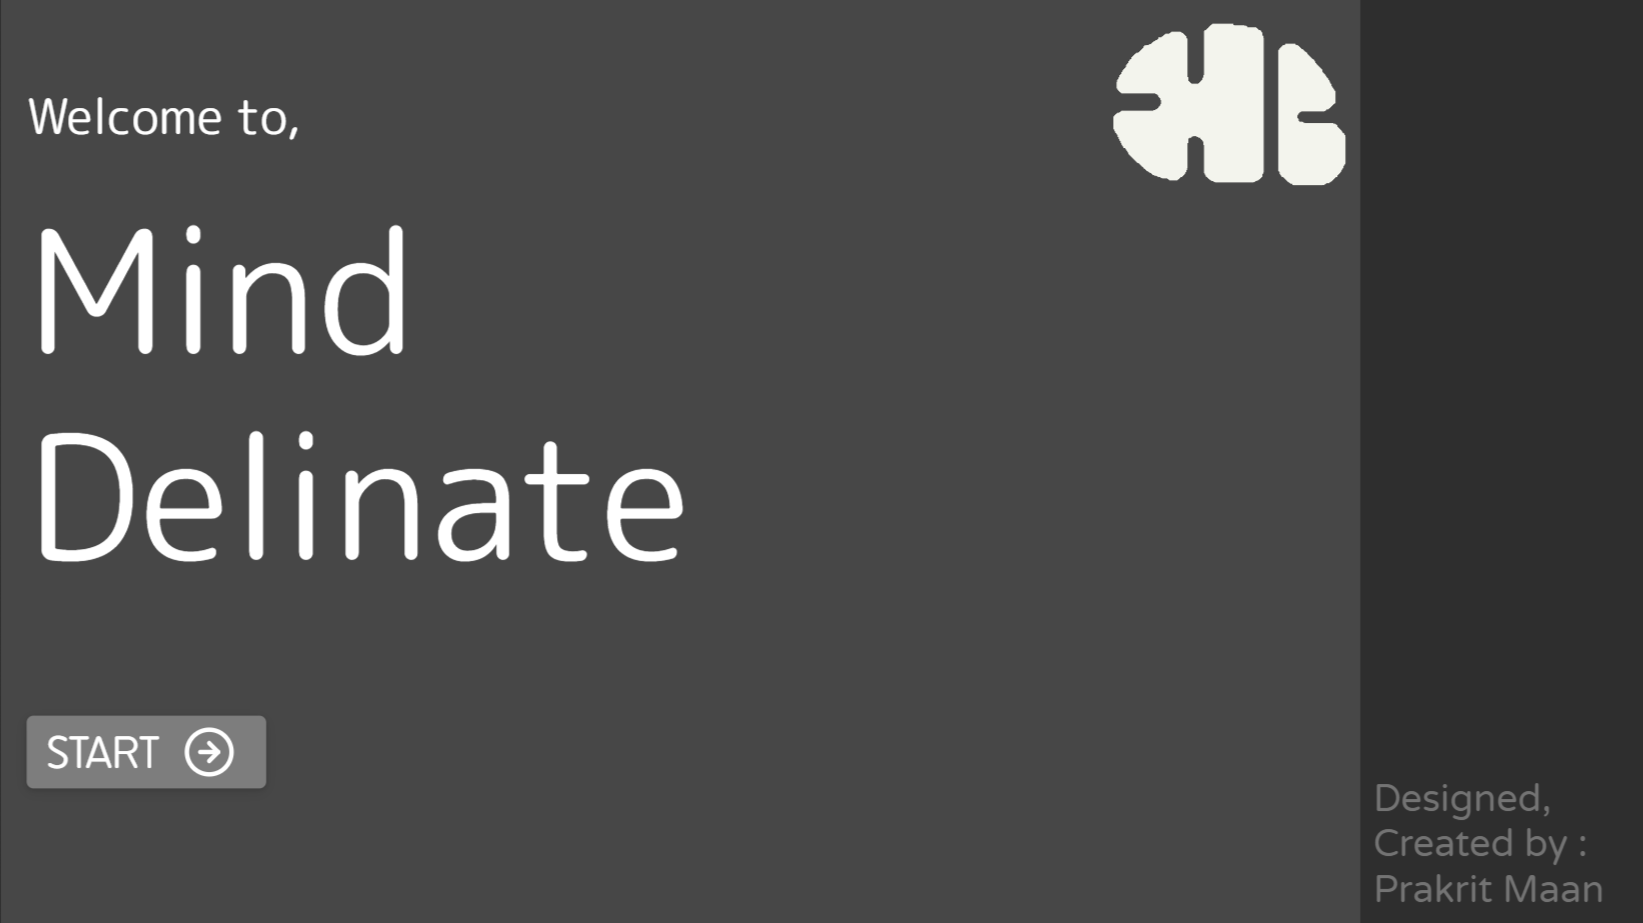
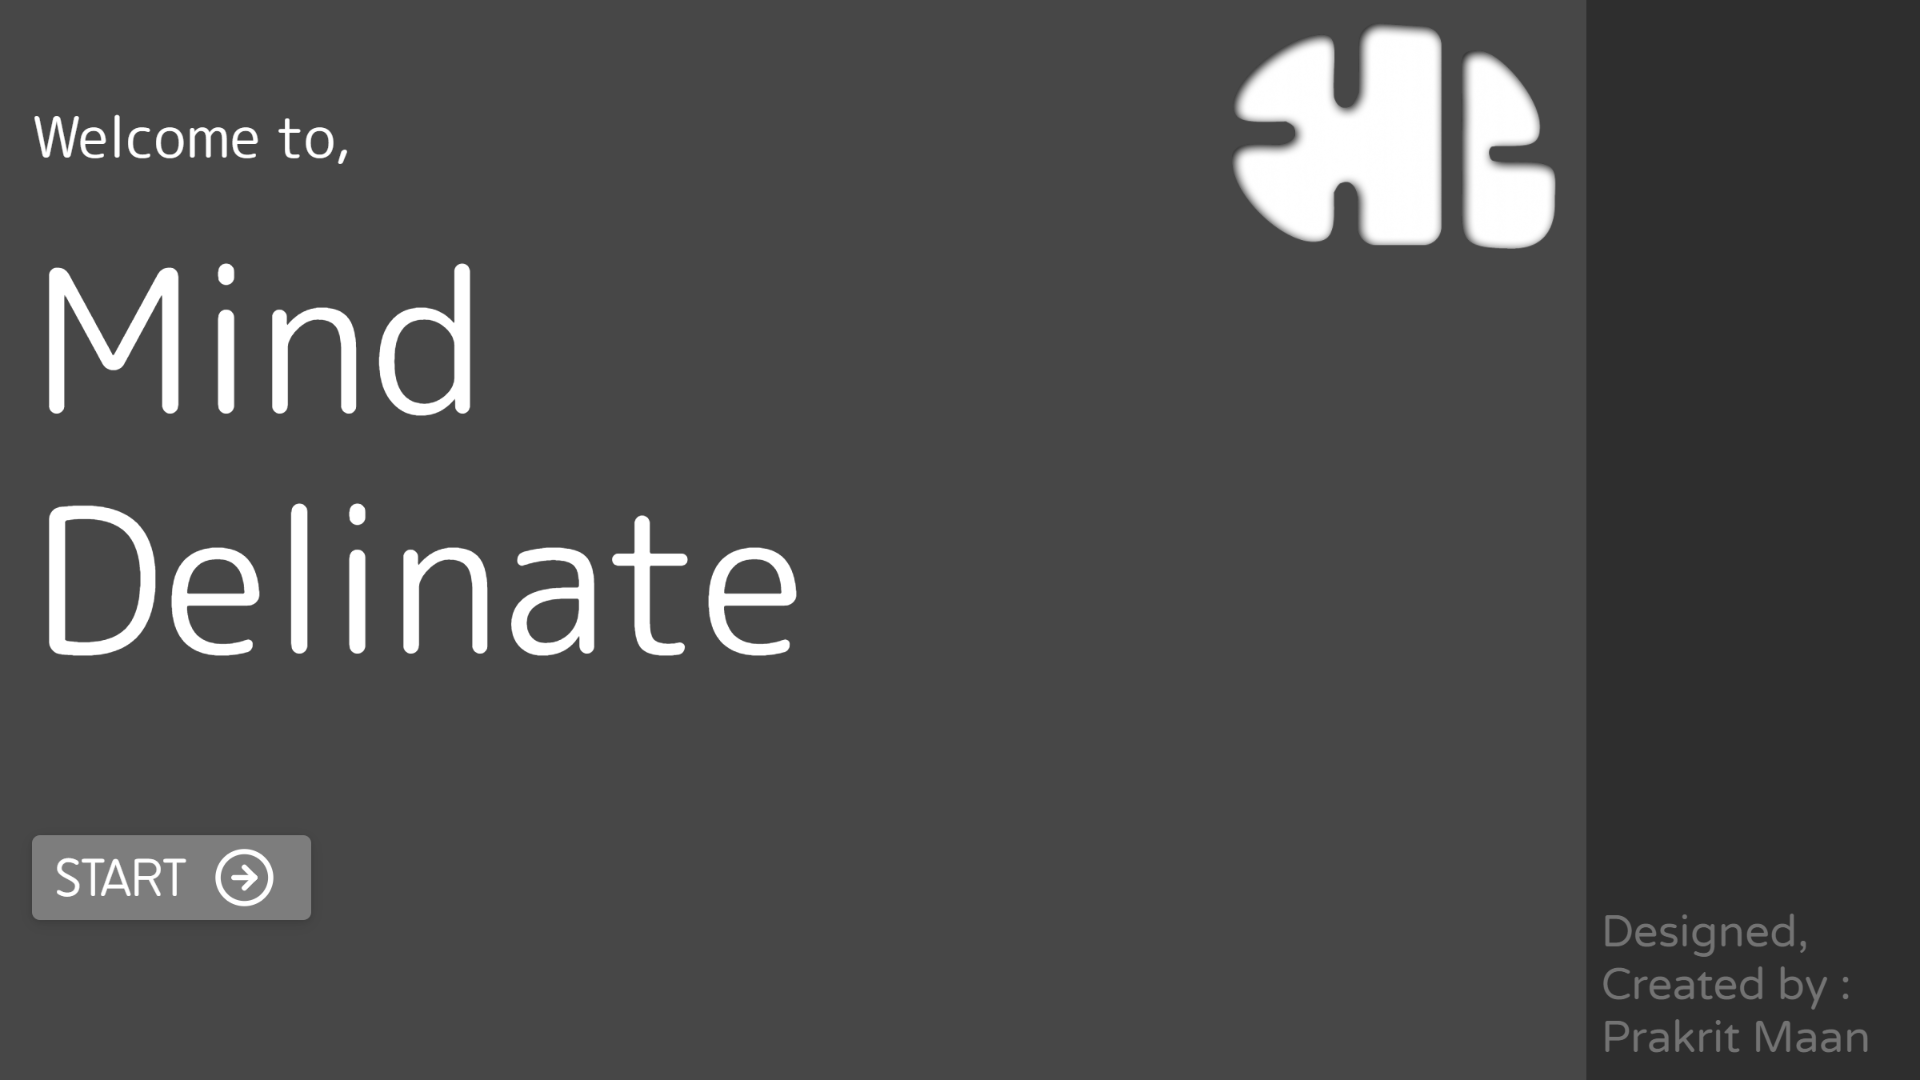
23.07.21

diff --git a/sketch.js b/sketch.js
@@ -1,117 +1,148 @@
-var play
-var introduce,introduce_img
-var levelselector=1
 var GameMode=0
-var UP_arrow,UP_arrow_img,DOWN_arrow,DOWN_arrow_img
-var con,con_img
-var Level1,Level1_img
+var start
+var introduce,introduce_img
+var levelselector0_5,levelselector0_5_img
+var input,Enter,PL_name
+var Levelsel,Levelsel_img
+var _1BUTTON,_2BUTTON,_3BUTTON,_4BUTTON,_5BUTTON,_6BUTTON
 
 function preload(){
   introduce_img = loadImage("intro.png")
   UP_arrow_img = loadImage("up.png")
   DOWN_arrow_img = loadImage("down.png")
+  levelselector0_5_img = loadImage("level0.5.png")
+  Levelsel_img = loadImage("Level sel.png")
 }
 
 function setup() {
-  createCanvas(windowWidth,windowHeight);
-  
-  introduce = createSprite(width/2-90,height/2,width/2,width)
+  createCanvas(windowWidth-1,windowHeight-1);
+
+  introduce = createSprite(width/2-83,height/2)
   introduce.addImage(introduce_img)
-  introduce.scale=0.83
+  introduce.scale=0.71
+  start = createSprite(120,618,180,61)
+  start.visible=false
 
-  play = createSprite(120,618,180,61)
-  play.visible=false
+  levelselector0_5 = createSprite(width/2+30,height/2)
+  levelselector0_5.addImage(levelselector0_5_img)
+  levelselector0_5.scale=0.83
+  levelselector0_5.visible=false
 
-  UP_arrow = createSprite(width/2,440,40,40)
-  UP_arrow.addImage(UP_arrow_img)
-  UP_arrow.scale=0.5
-
-  DOWN_arrow = createSprite(width/2,560,40,40)
-  DOWN_arrow.addImage(DOWN_arrow_img)
-  DOWN_arrow.scale=0.5
-
-  con = createSprite(width/2+50,500,50,20)
-  con.shapeColor="black"
-
-  DOWN_arrow.visible=false
-  UP_arrow.visible=false
-  con.visible=false
-
-
-
-  text1="Mind Mapping"
-  
+  Levelsel = createSprite(width/2-38,height/2)
+  Levelsel.addImage(Levelsel_img)
+  Levelsel.scale = 0.76
+  Levelsel.visible=false
 }
 
 function draw() {
   background('#2E2E2E'); 
   drawSprites(); 
-  if(mousePressedOver(play)){
-    GameMode=1
+  if(keyWentDown("D")){
+    dev()
   }
-  if(GameMode==1){
-    play.destroy()
-    fill("black")
-    textSize(40)
-    // textFont("")
-    DOWN_arrow.visible=true
-    UP_arrow.visible=true
-    con.visible=true
-    text(levelselector,width/2-10,520)
-
-    if(mousePressedOver(UP_arrow)){
-      levelselector++
-    }
-    if(keyWentDown("UP_ARROW")){
-      levelselector++
-    }
+  if(mousePressedOver(start)){
+    GameMode=0.5
     
-    if(mousePressedOver(DOWN_arrow)){
-      levelselector--
-    }
-
-    if(keyWentDown("DOWN_ARROW")){
-      levelselector++
-    }
-    
-    if(mousePressedOver(con)){
-      if(levelselector==1){
-        GameMode=2
-      }
-      if(levelselector==2){
-        GameMode=3
-      }
-      if(levelselector==3){
-        GameMode=4
-      }
-      if(levelselector==4){
-        GameMode=5
-      }
-      if(levelselector==5){
-        GameMode=6
-      }
-      if(levelselector==6){
-        GameMode=7
-      }
-      if(levelselector==7){
-        GameMode=8
-      }
-      if(levelselector==8){
-        GameMode=9
-      }
-    }
   }
-
-  if(GameMode==2){
-    //background('#2E2E2E');
+  if(GameMode==0.5){
     introduce.destroy()
-    UP_arrow.destroy()
-    DOWN_arrow.destroy()
-    con.destroy()
-    Level1.visible=true
-    
+    levelselector0_5.visible=true
+
+    // input = createInput("What is your name?")
+    // input.position(15,350)
+    // input.size(240,41)
+    // // input.value(Player)
+    // Enter = createButton("Continue ▶")
+    // Enter.position(133,565)
+    // Enter.size(240,61)
+
+    // Enter.mousePressed(function(){
+    //   PL_name = input.value();
+    //   levelselector0_5.destroy()
+    //   input.hide()
+    //   Enter.hide()
+    //   GameMode="L1"
+    //   input.hide()
+    //   Enter.hide()
+    // })
+
+    // console.log(PL_name)  
+
+    if(keyWentDown(ENTER)){
+      GameMode="Lpick"
+    }
+  }
+  
+  if(GameMode=="Lpick"){
+    // levelselector0_5.destroy()
+    // input.hide()
+    // Enter.hide()
+    Levelsel.visible=true
+
+    _1BUTTON = createSprite(615,235,260,240)
+    _1BUTTON.visible=false
+    _2BUTTON = createSprite(942,235,260,240)
+    _2BUTTON.visible=false
+    _3BUTTON = createSprite(1269,235,260,240)
+    _3BUTTON.visible=false
+    _4BUTTON = createSprite(615,583,260,240)
+    _4BUTTON.visible=false
+    _5BUTTON = createSprite(942,583,260,240)
+    _5BUTTON.visible=false
+    _6BUTTON = createSprite(1269,583,260,240)
+    _6BUTTON.visible=false
+
+    if(mousePressedOver(_1BUTTON)){
+      GameMode="L1"
+      Levelsel.destroy()
+    }
+    if(mousePressedOver(_2BUTTON)){
+      GameMode="L2"
+      Levelsel.destroy()
+    }
+    if(mousePressedOver(_3BUTTON)){
+      GameMode="L3"
+      Levelsel.destroy()
+    }
+    if(mousePressedOver(_4BUTTON)){
+      GameMode="L4"
+      Levelsel.destroy()
+    }
+    if(mousePressedOver(_5BUTTON)){
+      GameMode="L5"
+      Levelsel.destroy()
+    }
+    if(mousePressedOver(_6BUTTON)){
+      GameMode="L6"
+      Levelsel.destroy()
+    }
+
+  }
+
+  if(GameMode=="L1"){
     
   }
-  console.log(GameMode)
+  if(GameMode=="L2"){
+    
+  }
+  if(GameMode=="L3"){
+    
+  }
+  if(GameMode=="L4"){
+    
+  }
+  if(GameMode=="L5"){
+    
+  }
+  if(GameMode=="L6"){
+    
+  }
 
-}
+
+
+  function dev (){
+    GameMode="Lpick"
+    fill("white")
+    text('BYPASS MODE',30,20) 
+  }  
+} 

diff --git a/index.html b/index.html
@@ -3,7 +3,8 @@
   <script src="p5.js"></script>
   <script src="p5.dom.min.js"></script>
   <script src="p5.sound.min.js"></script>
-<script src="./p5.play.js"></script>
+  <script src="./p5.play.js"></script>
+  <script src="L1.js"></script>
   <link rel="stylesheet" type="text/css" href="style.css">
   <meta charset="utf-8">
 <!DOCTYPE html>
@@ -12,6 +13,7 @@
 </head>
 <body>
     <script src="sketch.js"></script>
+    
 
 </body>
 

diff --git a/the game plan of the game.md b/the game plan of the game.md
@@ -1,0 +1,14 @@
+The mapping mind
+the hero - you are the hero playing the game to improve your skills 
+the villan - you ability to learn and foreign you remind to create and images your thoughts the fear that stops you from learning is you villan 
+the story - memorizing thinking handlining it before the time runs out is the story line 
+the feature - the start up page(welcome), the level selector, level selector (8), block placing (mouse constrain),timing as API, is not finished in time restart from level -2 or  level 1 , the block will only place in the grid no between that 
+The Special feature - the matter sling!!, mousecin
+level1 HI!
+level2 smiley face 
+level3 flower 
+level4 Dimond
+level5 bird
+level6 landscape
+level7 skyscraper
+level8 see you 
